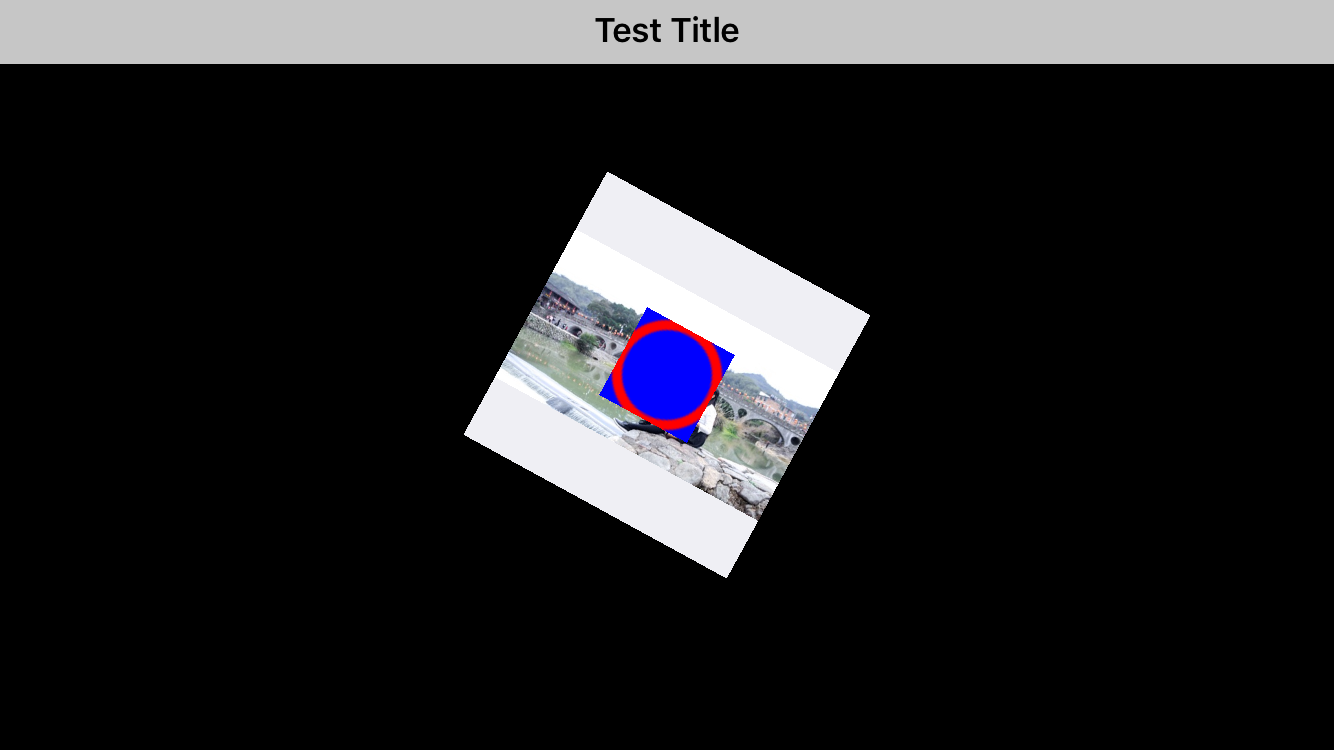
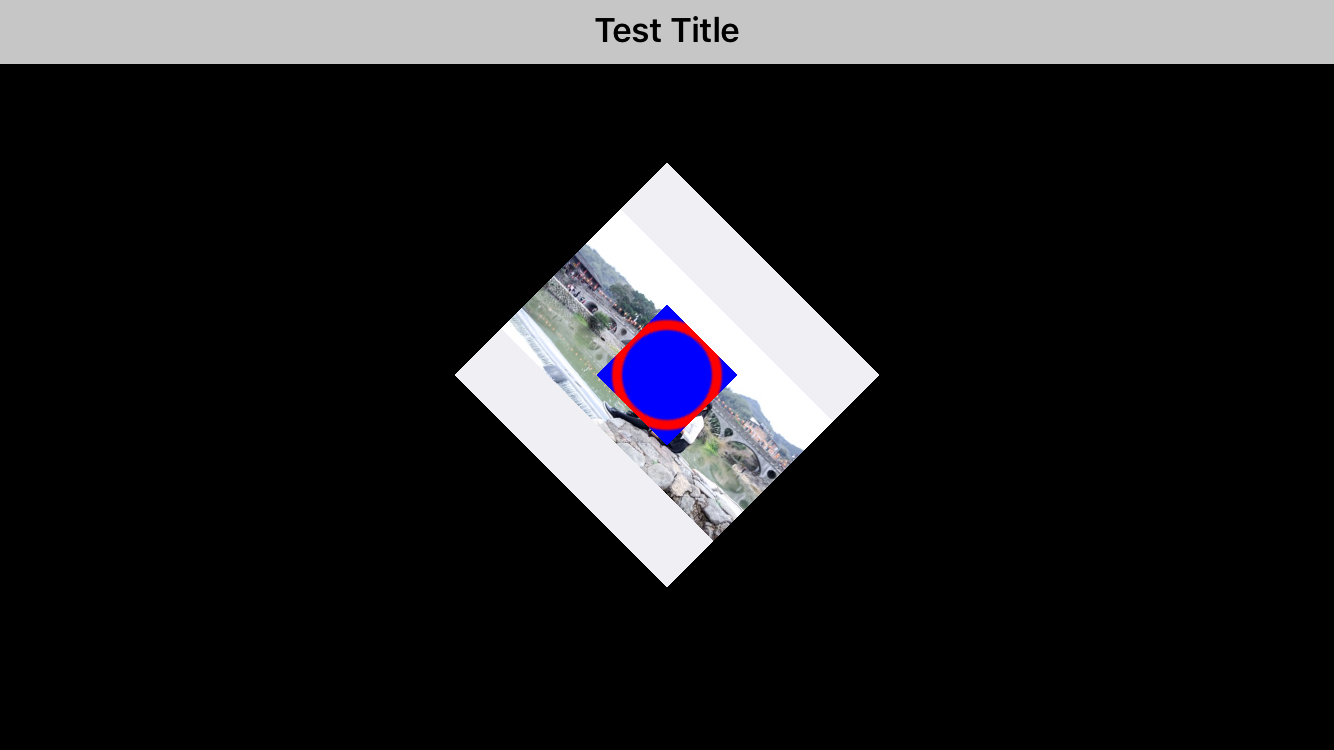
update

Changed region(s): [[0.3381, 0.2147, 0.6762, 0.7973]]

diff --git a/README.md b/README.md
@@ -921,7 +921,7 @@ _blueLayer.delegate = self;
 
 ```
 // 旋转90度
-_layerView.transform = CGAffineTransformMakeRotation(0.5);
+_layerView.transform = CGAffineTransformMakeRotation(M_PI_4);
 ```
 效果图:
 
@@ -929,7 +929,7 @@ _layerView.transform = CGAffineTransformMakeRotation(0.5);
 
 ```
 // 组合仿射  组合的同时，偏移X、Y轴坐标
-CGAffineTransform viewTransform = CGAffineTransformConcat(CGAffineTransformMakeRotation(0.5),CGAffineTransformMakeTranslation(-10, -50));
+CGAffineTransform viewTransform = CGAffineTransformConcat(CGAffineTransformMakeRotation(M_PI_4),CGAffineTransformMakeTranslation(-10, -50));
 _layerView.transform = viewTransform;
 
 ```
